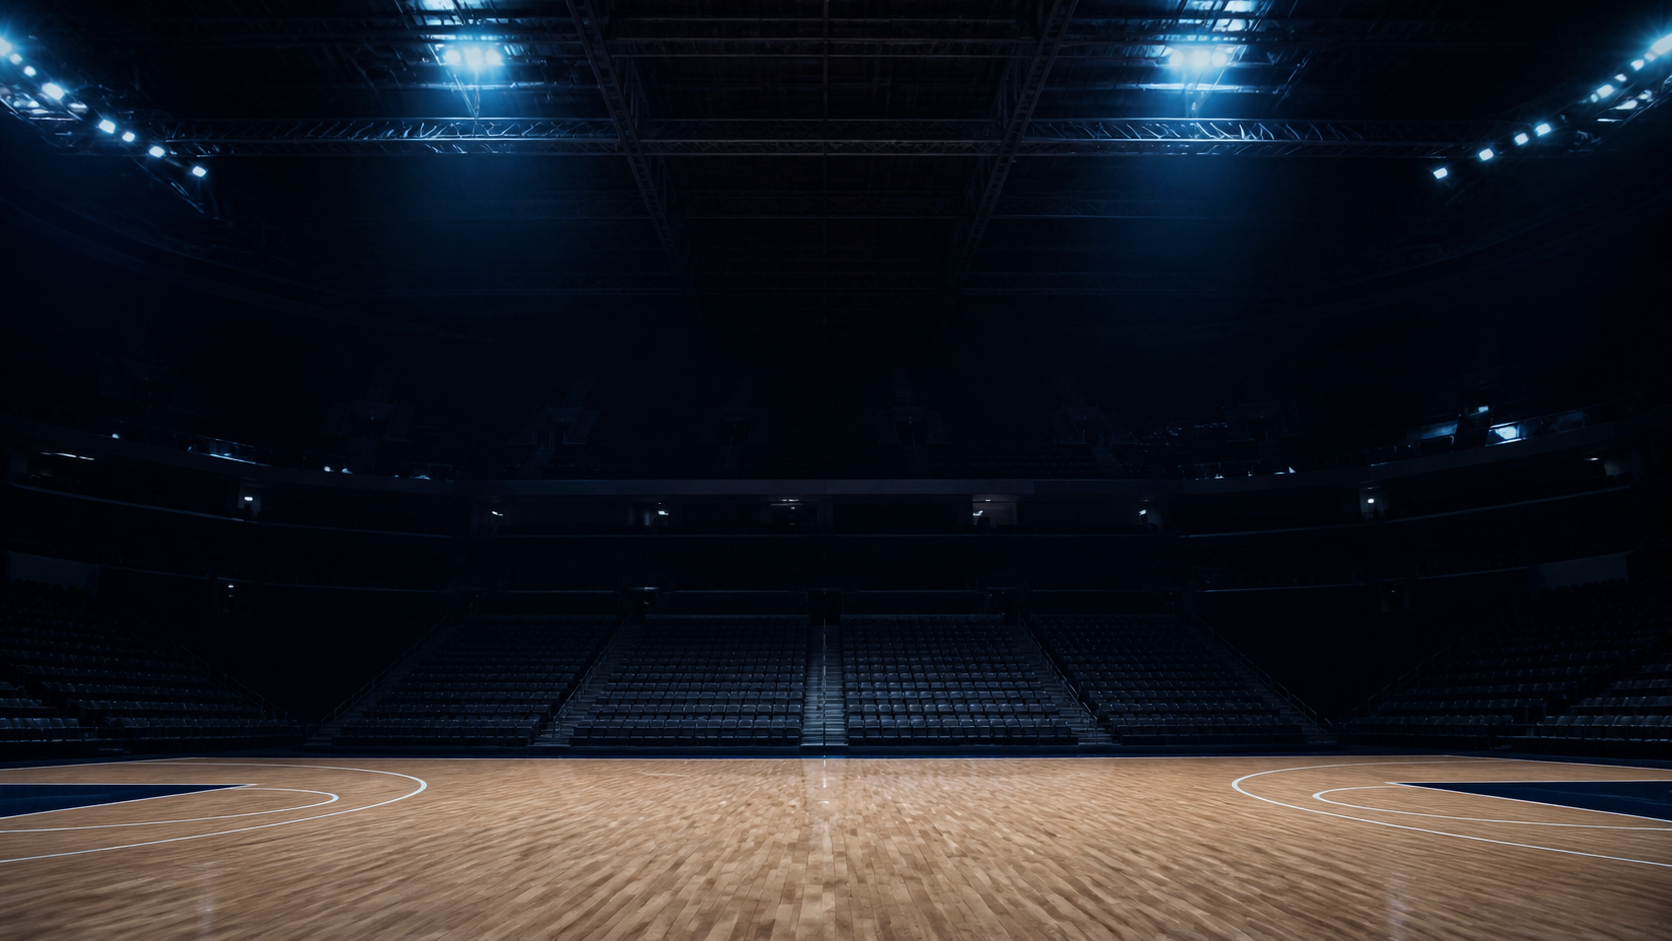
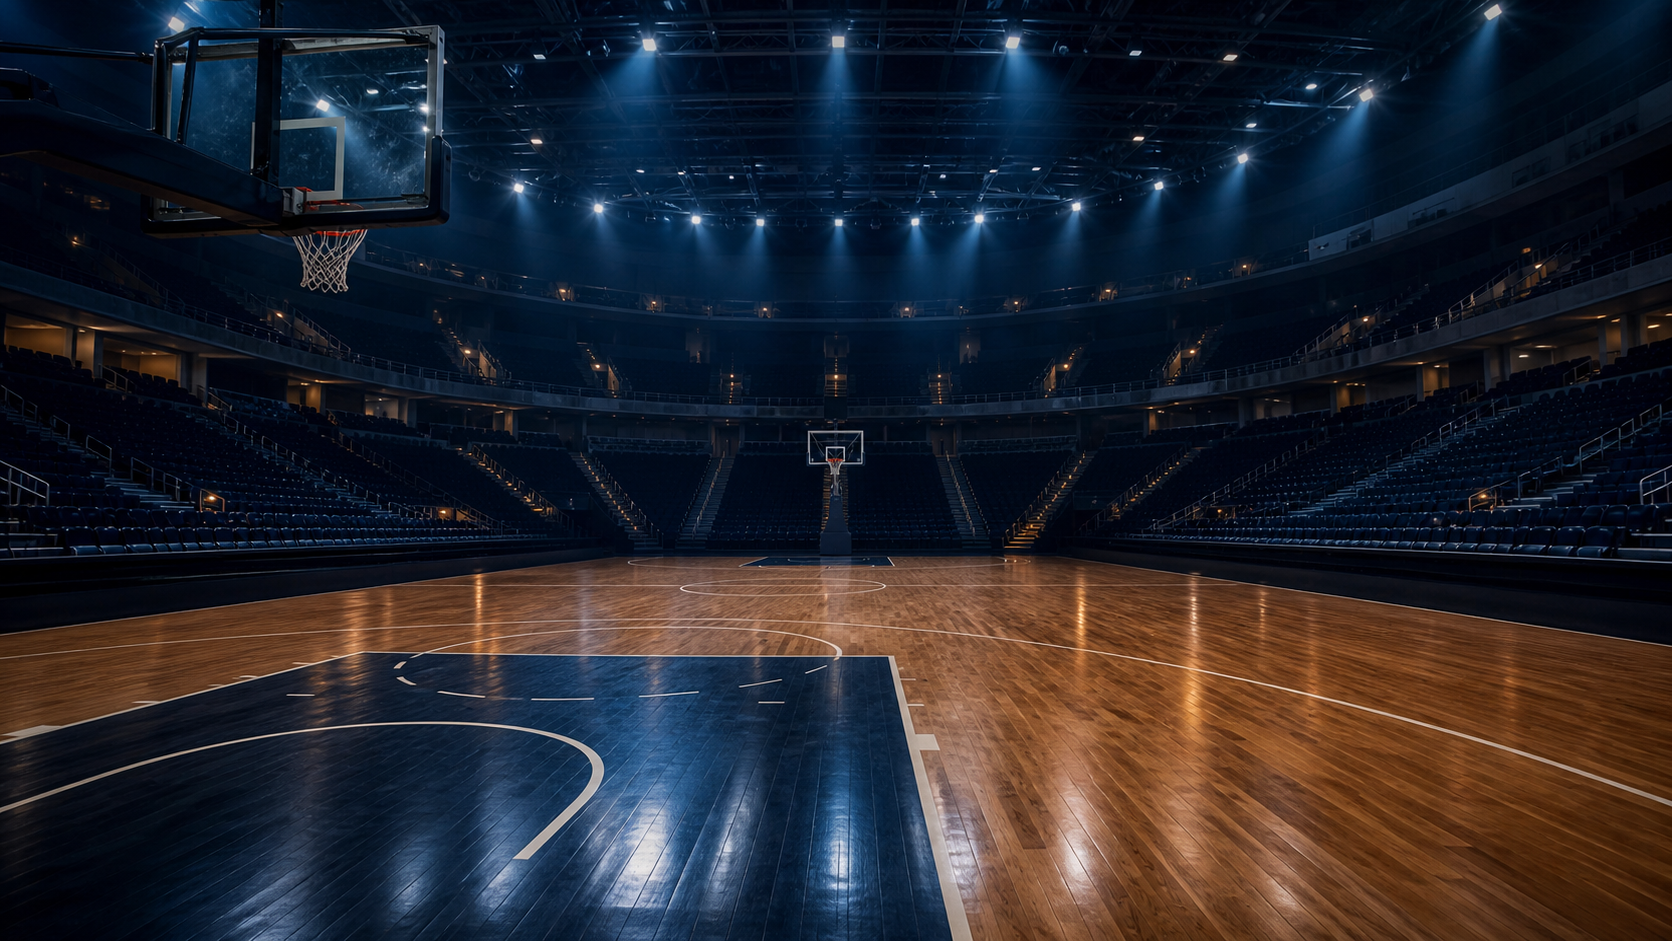
Improve mobile arena and duty layout

diff --git a/index.html b/index.html
@@ -14,14 +14,14 @@
     body{font-family:Inter,ui-sans-serif,system-ui,sans-serif}
     body.bg-zinc-950{
       background-color:#020617!important;
-      background-image:linear-gradient(180deg,rgba(2,6,23,.76) 0%,rgba(2,6,23,.88) 48%,rgba(2,6,23,.94) 100%),url('assets/images/arena-background.png')!important;
+      background-image:linear-gradient(180deg,rgba(2,6,23,.68) 0%,rgba(2,6,23,.80) 48%,rgba(2,6,23,.90) 100%),url('assets/images/arena-background.png')!important;
       background-position:center center!important;
       background-size:cover!important;
       background-attachment:fixed!important;
       background-repeat:no-repeat!important;
     }
     .hero{background:radial-gradient(circle at 100% 0,#38bdf8 0,transparent 36%),linear-gradient(135deg,#172554,#075985);box-shadow:0 22px 55px rgba(14,116,144,.3)}.card{box-shadow:0 12px 34px rgba(0,0,0,.24)}button{transition:.16s transform,opacity}.tap:active{transform:scale(.97)}
-    @media (max-width:768px){body.bg-zinc-950{background-attachment:scroll!important;background-position:center top!important}}
+    @media (max-width:768px){body.bg-zinc-950{background-image:linear-gradient(180deg,rgba(2,6,23,.72) 0%,rgba(2,6,23,.84) 52%,rgba(2,6,23,.92) 100%),url('assets/images/arena-background.png')!important;background-attachment:fixed!important;background-size:auto 100vh!important;background-position:center center!important}}
   </style>
 </head>
 <body class="min-h-screen bg-zinc-950 pb-24 text-zinc-100">
@@ -157,7 +157,7 @@ function trainingView(){if(detail)return detailView();const all=upcoming().filte
 function openEvent(id){detail=id;render()}
 function responseChoices(eventId){const selected=response(eventId)?.status,options=[['yes','✓','Dabei','from-cyan-400 to-blue-600','border-cyan-400/40 text-cyan-200'],['maybe','?','Vielleicht','from-violet-400 to-fuchsia-600','border-violet-400/40 text-violet-200'],['no','–','Kann nicht','from-zinc-500 to-zinc-700','border-zinc-600 text-zinc-300']];return `<div class="mt-4 grid gap-2 sm:grid-cols-3">${options.map(([value,icon,label,gradient,idle])=>`<button onclick="rsvp('${eventId}','${value}')" class="tap rounded-2xl border p-4 text-left transition ${selected===value?`bg-gradient-to-br ${gradient} border-transparent text-white shadow-lg shadow-black/30`:`bg-zinc-800/80 ${idle} hover:-translate-y-0.5`}"><span class="grid h-7 w-7 place-items-center rounded-lg bg-black/15 text-sm font-black">${icon}</span><b class="mt-3 block text-sm">${label}</b><span class="mt-1 block text-xs opacity-75">${selected===value?'Ausgewählt':'Antwort wählen'}</span></button>`).join('')}</div>`}
 function detailView(){const e=events.find(x=>x.id===detail);if(!e)return '';const game=e.type==='game', roleDuties=duties.filter(d=>d.event_id===e.id),courtDuties=roleDuties.filter(d=>d.category!=='kit_bag'),kitDuty=roleDuties.filter(d=>d.category==='kit_bag'),team=people();return `<button onclick="detail=null;render()" class="text-sm font-bold text-zinc-400">← Zurück</button><h2 class="mt-4 text-2xl font-black">${game?(e.home?'vs ':'@ ')+esc(e.opponent):'Training'}</h2><p class="mt-1 text-zinc-400">${dfmt(e.starts_at)} · ${time(e.starts_at)}</p><a target="_blank" rel="noopener" href="${maps(e.location)}" class="mt-2 inline-block text-sm font-bold text-sky-300 underline">📍 ${esc(e.location)} in Google öffnen</a><section class="${card} mt-5"><div class="flex items-center justify-between"><div><h3 class="font-black">Meine Rückmeldung</h3><p class="mt-1 text-sm text-zinc-400">Wähle deine Verfügbarkeit für diesen Termin.</p></div>${responseBadge(response(e.id)?.status)}</div>${responseChoices(e.id)}</section>${game?`<section class="${card} mt-4 bg-gradient-to-br from-sky-950/35 via-zinc-900 to-zinc-900"><h3 class="font-black text-sky-200">Kampfgericht</h3><p class="mt-1 text-sm text-zinc-400">Eine Rolle pro Spieler: Bogen/iPad, 24 Sekunden oder Anzeigetafel.</p><div class="mt-4 space-y-2">${courtDuties.map(dutyLine).join('')}</div></section><section class="${card} mt-4 bg-gradient-to-br from-violet-950/30 via-zinc-900 to-zinc-900"><h3 class="font-black text-violet-200">Trikottasche</h3><p class="mt-1 text-sm text-zinc-400">Kann zusätzlich zu einer Kampfgericht-Rolle übernommen werden.</p><div class="mt-4 space-y-2">${kitDuty.map(dutyLine).join('')}</div></section>`:''}<section class="${card} mt-4"><h3 class="font-black">Kader & Rückmeldungen</h3><div class="mt-3 space-y-2 text-sm">${team.map(p=>`<div class="flex items-center justify-between"><span>${esc(p.full_name)}</span>${response(e.id,p.profile_id)?.status?responseBadge(response(e.id,p.profile_id).status):responseBadge()}</div>`).join('')}</div></section>`}
-function dutyLine(d){const who=roster.find(p=>p.profile_id===d.assigned_to)?.full_name||'Offen', label={shotclock:'24 Sekunden / Shotclock',scorer:'Anschreiber · Bogen/iPad',timekeeper:'Anzeigetafel & Zeitnahme',kit_bag:'Trikottasche'}[d.category]||d.category,kit=d.category==='kit_bag',tone=kit?'border border-violet-400/15 bg-violet-950/20':'border border-sky-400/15 bg-sky-950/20',accent=kit?'text-violet-300':'text-sky-300';let actions=d.assigned_to?(d.status==='completed'?`<span class="text-xs font-bold text-emerald-400">Bestätigt</span>`:''):`<button onclick="claim('${d.id}')" class="${button} ${kit?'bg-violet-400 text-zinc-950':'bg-sky-400 text-zinc-950'}">Übernehmen</button>`;if(coach()&&d.status==='claimed')actions+=`<button onclick="confirmDuty('${d.id}')" class="${button} bg-emerald-500">Bestätigen</button>`;if(coach()&&!d.assigned_to)actions+=`<button onclick="assignDuty('${d.id}')" class="${button} bg-zinc-800 ${accent}">Zuteilen</button>`;return `<div class="flex items-center justify-between gap-3 rounded-2xl ${tone} p-3"><div><b class="text-sm">${label}</b><span class="block text-xs text-zinc-400">${esc(who)}</span></div><div class="flex shrink-0 items-center gap-1">${actions}</div></div>`}
+function dutyLine(d){const who=roster.find(p=>p.profile_id===d.assigned_to)?.full_name||'Offen', label={shotclock:'24 Sekunden / Shotclock',scorer:'Anschreiber · Bogen/iPad',timekeeper:'Anzeigetafel & Zeitnahme',kit_bag:'Trikottasche'}[d.category]||d.category,kit=d.category==='kit_bag',tone=kit?'border border-violet-400/15 bg-violet-950/20':'border border-sky-400/15 bg-sky-950/20',accent=kit?'text-violet-300':'text-sky-300';let actions=d.assigned_to?(d.status==='completed'?`<span class="text-xs font-bold text-emerald-400">Bestätigt</span>`:''):`<button onclick="claim('${d.id}')" class="${button} whitespace-nowrap ${kit?'bg-violet-400 text-zinc-950':'bg-sky-400 text-zinc-950'}">Übernehmen</button>`;if(coach()&&d.status==='claimed')actions+=`<button onclick="confirmDuty('${d.id}')" class="${button} whitespace-nowrap bg-emerald-500">Bestätigen</button>`;if(coach()&&!d.assigned_to)actions+=`<button onclick="assignDuty('${d.id}')" class="${button} whitespace-nowrap bg-zinc-800 ${accent}">Zuteilen</button>`;return `<div class="flex flex-col gap-3 rounded-2xl ${tone} p-3 sm:flex-row sm:items-center sm:justify-between"><div class="min-w-0"><b class="text-sm">${label}</b><span class="block text-xs text-zinc-400">${esc(who)}</span></div><div class="flex w-full flex-wrap justify-end gap-2 sm:w-auto sm:shrink-0">${actions}</div></div>`}
 function rosterView(){const rows=roster.sort((a,b)=>(a.role||'').localeCompare(b.role||'')||a.full_name.localeCompare(b.full_name));return `<h2 class="text-2xl font-black">Team</h2><p class="mt-1 text-sm text-zinc-400">${people().length} Spieler · ${roster.filter(x=>x.role==='coach').length} Trainer</p><div class="mt-5 space-y-2">${rows.map(p=>{const positions=p.profile_id===me.uid?(profile.positions||p.positions):p.positions;return `<div class="${card} flex items-center justify-between p-4"><div><b>${esc(p.full_name)}</b><p class="text-xs text-zinc-400">${positions?.join(' · ')||'Position folgt'}</p></div><span class="text-xs font-bold ${p.role==='coach'?'text-sky-300':'text-violet-300'}">${p.role==='coach'?'Trainer':'Spieler'}</span></div>`}).join('')}</div>${positionSetup()}`}
 function positionSetup(){if(!me||coach()||profile.positions?.length>=2)return '';return `<section class="${card} mt-5"><h3 class="font-black">Deine Positionen</h3><p class="mt-1 text-sm text-zinc-400">Wähle zwei oder drei Positionen, um dein Profil freizuschalten.</p><div class="mt-3 grid grid-cols-2 gap-2">${POSITIONS.map(p=>`<label class="rounded-xl bg-zinc-800 p-3 text-sm"><input class="mr-2 pos" type="checkbox" value="${p}"> ${p}</label>`).join('')}</div><button onclick="savePositions()" class="${button} mt-4 bg-sky-400 text-zinc-950">Profil speichern</button></section>`}
 function dutyView(){const court=['scorer','shotclock','timekeeper'], isCourt=dutyFilter==='court', active=isCourt?court:['kit_bag'], completed=duties.filter(d=>d.status==='completed'&&active.includes(d.category)), count=id=>completed.filter(d=>d.assigned_to===id).length, label=isCourt?'Kampfgericht':'Trikottasche', subtitle=isCourt?'Bogen / iPad · 24 Sekunden · Anzeigetafel':'Waschen, Mitnehmen und zurückbringen', accent=isCourt?'text-sky-300':'text-violet-300', surface=isCourt?'from-sky-950/60 via-zinc-900 to-zinc-900':'from-violet-950/60 via-zinc-900 to-zinc-900', badge=isCourt?'bg-sky-400/15 text-sky-200':'bg-violet-400/15 text-violet-200';return `<h2 class="text-2xl font-black">Aufgaben</h2><p class="mt-1 text-sm text-zinc-400">Die beiden Aufgabenbereiche werden getrennt erfasst.</p><div class="mt-4 grid grid-cols-2 gap-2"><button onclick="dutyFilter='court';render()" class="${button} ${isCourt?'bg-gradient-to-br from-cyan-400 to-blue-600 text-white shadow-lg shadow-sky-950/40':'border border-sky-400/25 bg-sky-950/30 text-sky-200'}">Kampfgericht</button><button onclick="dutyFilter='kit';render()" class="${button} ${!isCourt?'bg-gradient-to-br from-violet-400 to-fuchsia-600 text-white shadow-lg shadow-violet-950/40':'border border-violet-400/25 bg-violet-950/30 text-violet-200'}">Trikottasche</button></div><section class="${card} mt-4 bg-gradient-to-br ${surface}"><h3 class="font-black ${accent}">${label}</h3><p class="mt-1 text-sm text-zinc-300">${subtitle}</p><div class="mt-3 flex flex-wrap gap-2">${active.map(c=>`<span class="rounded-full ${badge} px-3 py-1 text-xs font-bold">${{scorer:'Bogen / iPad',shotclock:'24 Sekunden',timekeeper:'Anzeigetafel',kit_bag:'Trikottasche'}[c]}</span>`).join('')}</div></section><h3 class="mt-5 text-sm font-black uppercase tracking-widest text-zinc-400">Bestätigte Einsätze</h3><div class="${card} mt-3 overflow-hidden p-0">${people().sort((a,b)=>count(b.profile_id)-count(a.profile_id)).map(p=>`<div class="flex items-center justify-between border-b border-white/[.06] p-4"><div><b>${esc(p.full_name)}</b><p class="text-xs text-zinc-400">${completed.filter(d=>d.assigned_to===p.profile_id).map(d=>dfmt(events.find(e=>e.id===d.event_id)?.starts_at||'')).slice(-3).join(' · ')||'Noch kein Einsatz'}</p></div><b class="${accent}">${count(p.profile_id)}×</b></div>`).join('')}</div>`}
